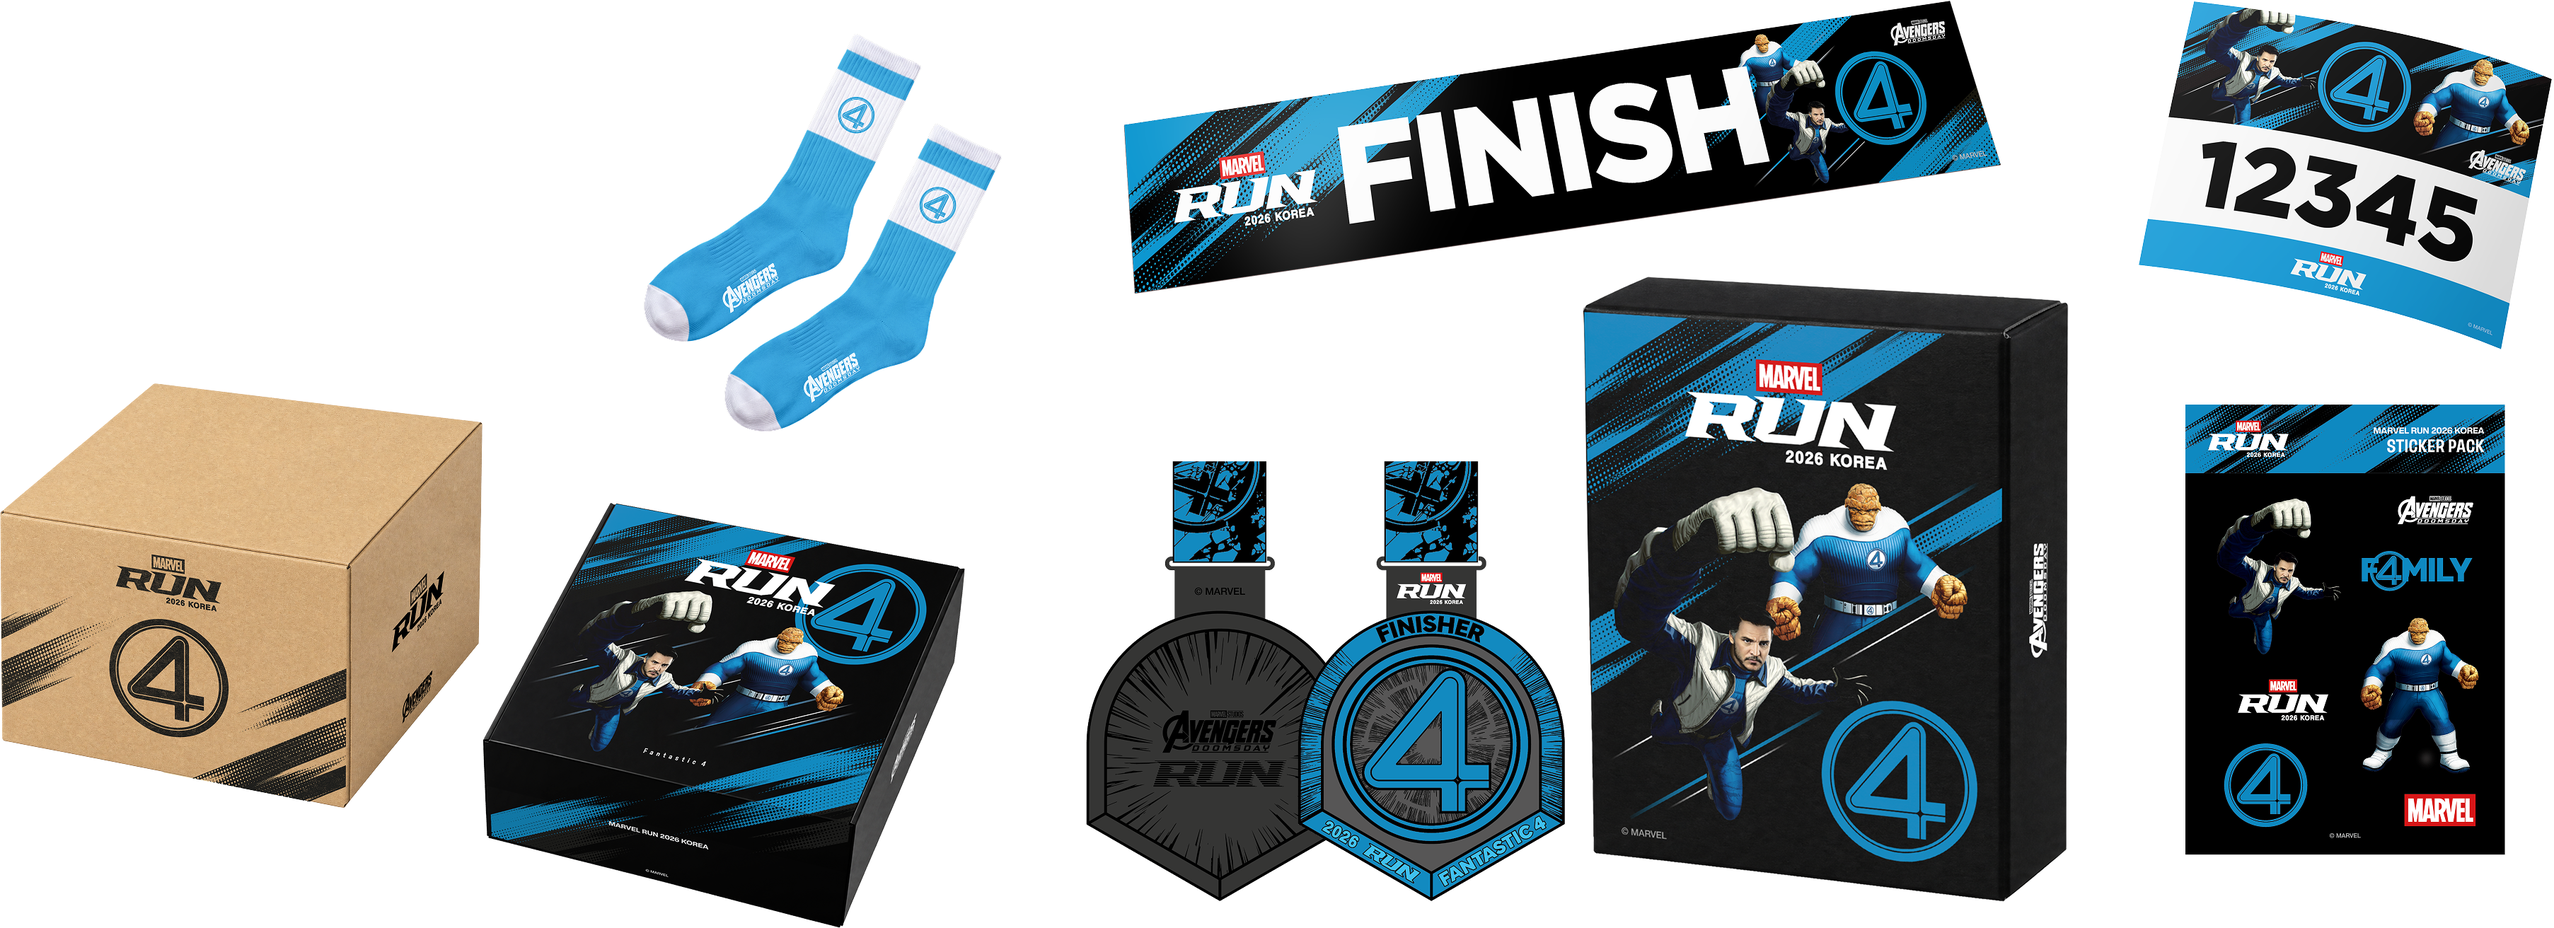
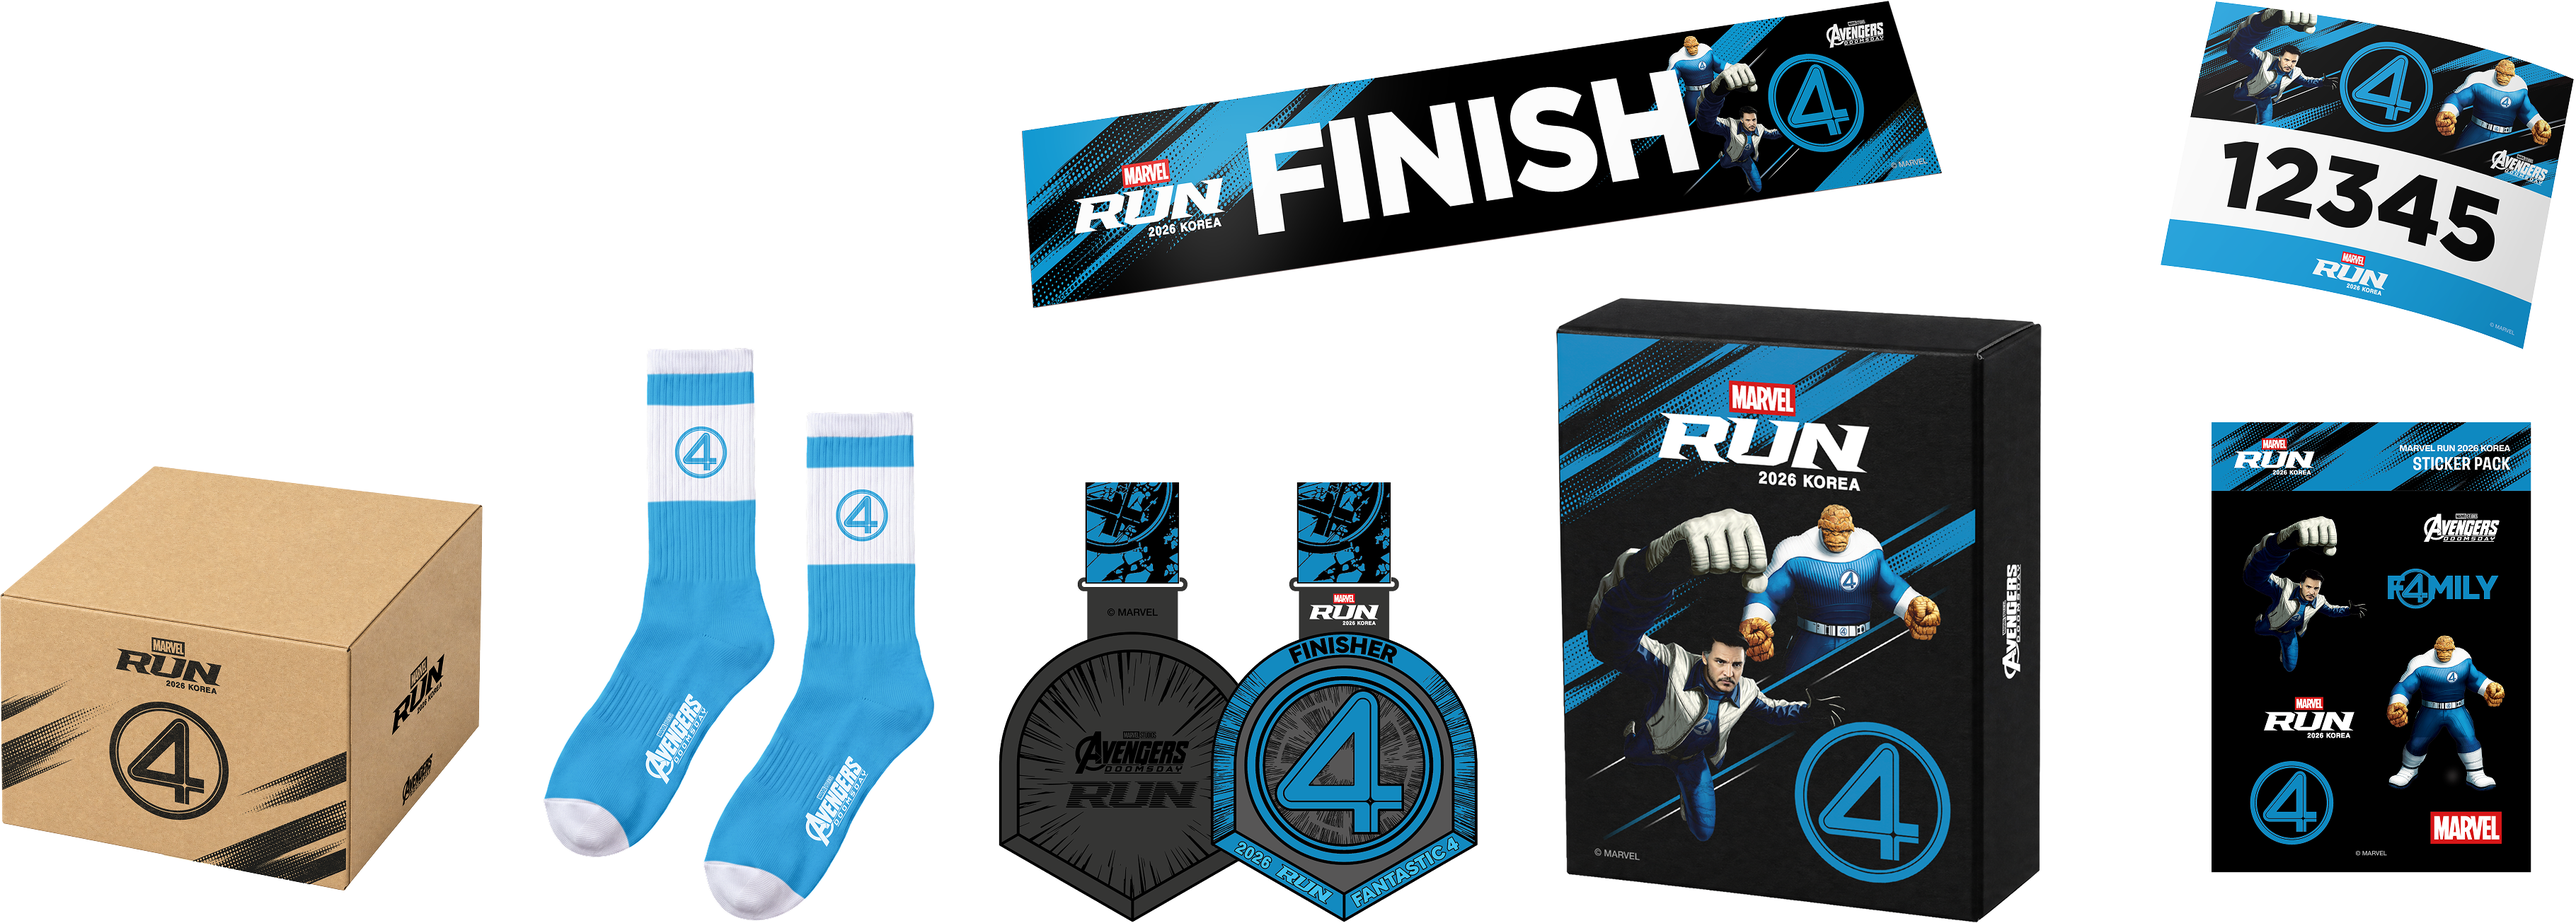
design: #320 테마별 기념품 구성 이미지 추가

diff --git a/src/components/virtual-run/kit/VirtualRunKitGallery.tsx b/src/components/virtual-run/kit/VirtualRunKitGallery.tsx
@@ -69,8 +69,7 @@ export function VirtualRunKitGallery() {
   const finish = theme.items.find((item) => item.kind === "finish-line");
   const slide = souvenir[index] ?? souvenir[0];
   const overview = view === "overview" || !slide;
-  const souvenirScene =
-    themeId === "fantastic-four" ? VIRTUAL_RUN_ASSETS.kitSouvenir["fantastic-four"] : null;
+  const souvenirScene = VIRTUAL_RUN_ASSETS.kitSouvenir[themeId];
 
   useEffect(() => {
     if (view !== "detail" || souvenir.length < 2) return;
@@ -122,6 +121,7 @@ export function VirtualRunKitGallery() {
         {overview && souvenirScene ? (
           <div className="vr-kit-hero__bg-frame">
             <Image
+              key={souvenirScene}
               src={souvenirScene}
               alt=""
               fill

diff --git a/src/lib/virtual-run/assets.ts b/src/lib/virtual-run/assets.ts
@@ -10,6 +10,8 @@ export const VIRTUAL_RUN_ASSETS = {
     fantasticFour: "/images/virtual-run/combined-medal/fantastic-four-front.png",
   },
   kitSouvenir: {
+    avengers: "/images/virtual-run/kit/avengers/souvenir.png",
+    "x-men": "/images/virtual-run/kit/x-men/souvenir.png",
     "fantastic-four": "/images/virtual-run/kit/fantastic-four/souvenir.png",
   },
 } as const;
